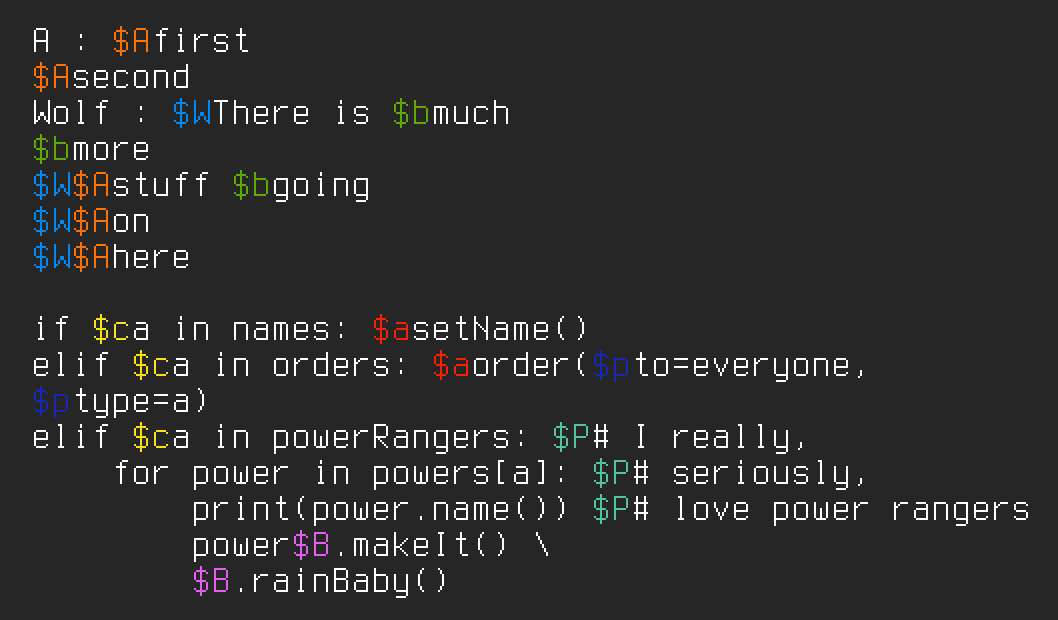
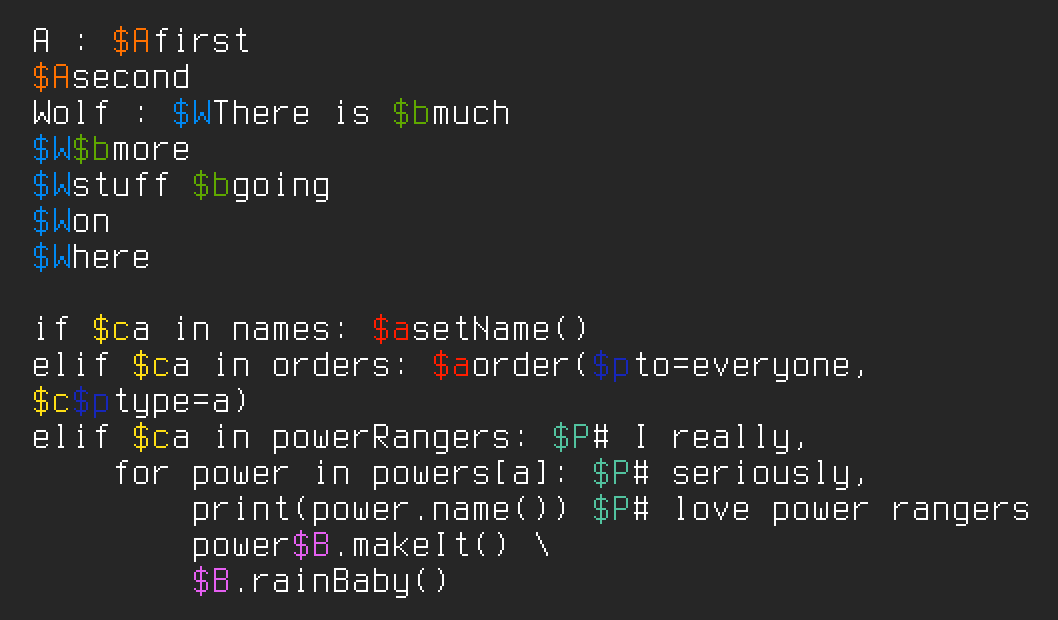
Match example and explanation with actual implementation

diff --git a/README.md b/README.md
@@ -89,15 +89,52 @@ from corresponding elastic tabstops:
 * Between the second `$A` and the first `$W`
   there would be no way to avoid tabs placed there to interact.
   * The answer would then be to add an extra line in between,
-    but that would lose alignment with the other `$A`s.
-* Between the first `$W` and the second `$b`
-  you would need to add an intermediary tab to specify the difference.
-  That's OK but it seems like an unnecessary exercise.
+    which I personally find to be a clunky requirement on the user.
+* The second `$a` and the second `$p` would interact,
+  the answer would be to add an artificial tab to align to the `$a` one.
+  The `$P` on the following line would then interact with that `$a`,
+  with no clean fix.
 * If the indentations in the last lines were described with tabs,
   they would interact with the last `$c` and with the second `$P`.
-  * The answer for the `$c` would be to add an extra line,
-    which I personally find to be a clunky requirement on the user.
+  * The answer for the `$c` would once again be to add an extra line.
   * The answer for the `$P` would be to forbid alignment
     across multiple indentation levels
     — it is admittedly a rare occurence and probably a bad pratice altogether
     but once again I don't like adding requirements to the user.
+
+Improvement
+-----------
+
+Alignment points were initially supposed to be related if and only if
+they were in the same paragraph
+(to reduce risk of running out of identifiers).
+The implementation, however, is more restrictive and only cares
+for blocks of contiguous lines containing the same alignment ID.
+
+This means that the `$W` preceding the `$b` cannot be removed,
+or alignment of the subsequent `$W`s with the first one would be lost.
+Same thing for the third `$c`.
+
+The solution would be to either align throughout the document
+or, as first imagined, by paragraphs. Either would complexify
+the design of the implementation, the paragraph-aware one seems
+like the cleanest.
+
+Once that's implemented, this would be added to the above list
+of “improvements” over elastic tabstops:
+
+* Between the first `$W` and the second `$b`
+  you would need to add an intermediary tab to specify the difference.
+  That's OK but it seems like an unnecessary exercise.
+
+Conclusion
+----------
+
+Elastic tabstops are presented as the perfect answer to a complex situation
+but they work only when they are compatible with the programming language
+and/or coding style.
+
+This description would solve all corresponding problems
+but probably add a slew of implementation and compatibility issues.
+
+The tab war rages on.
